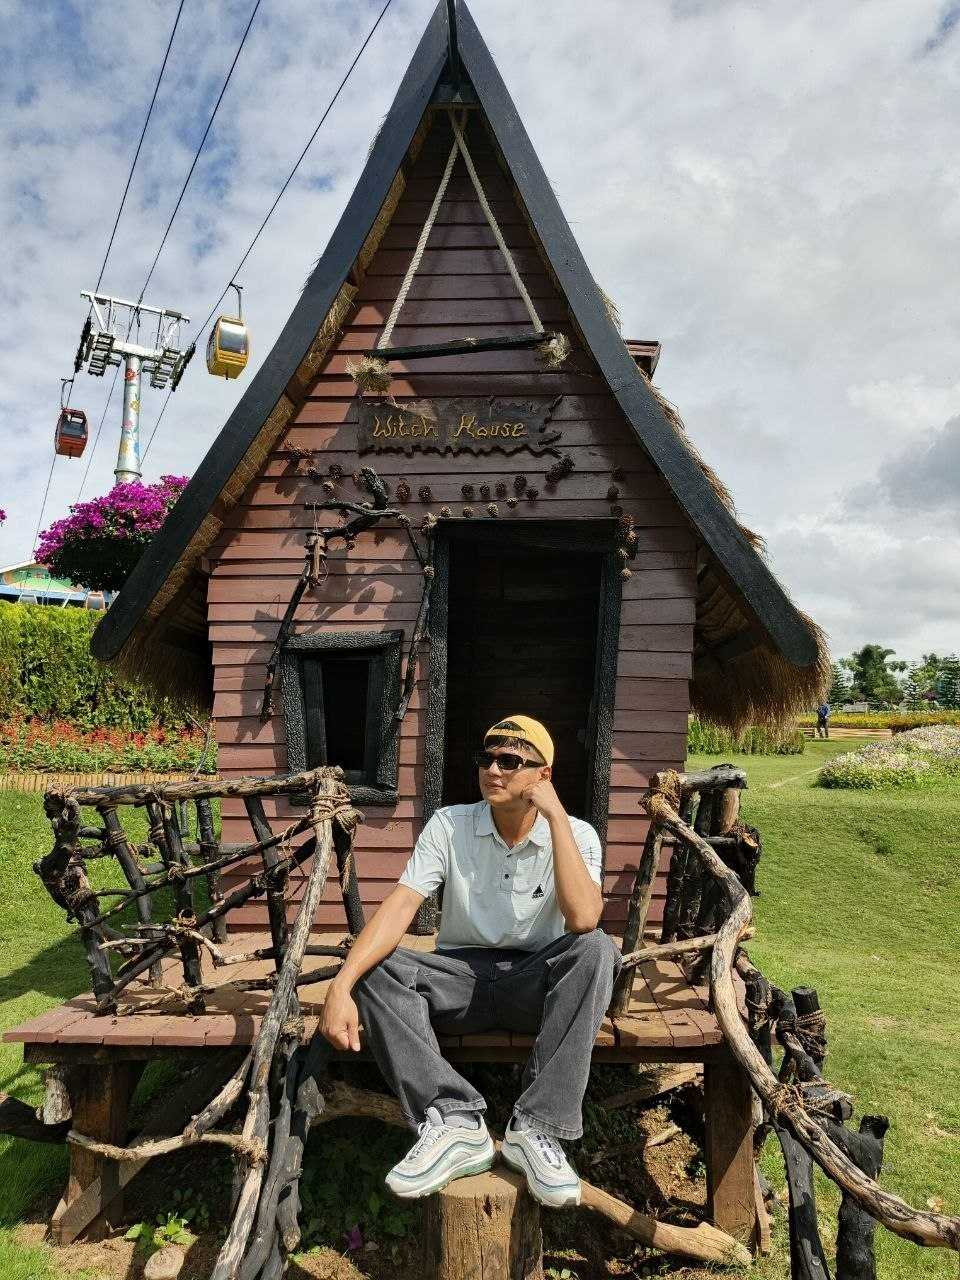
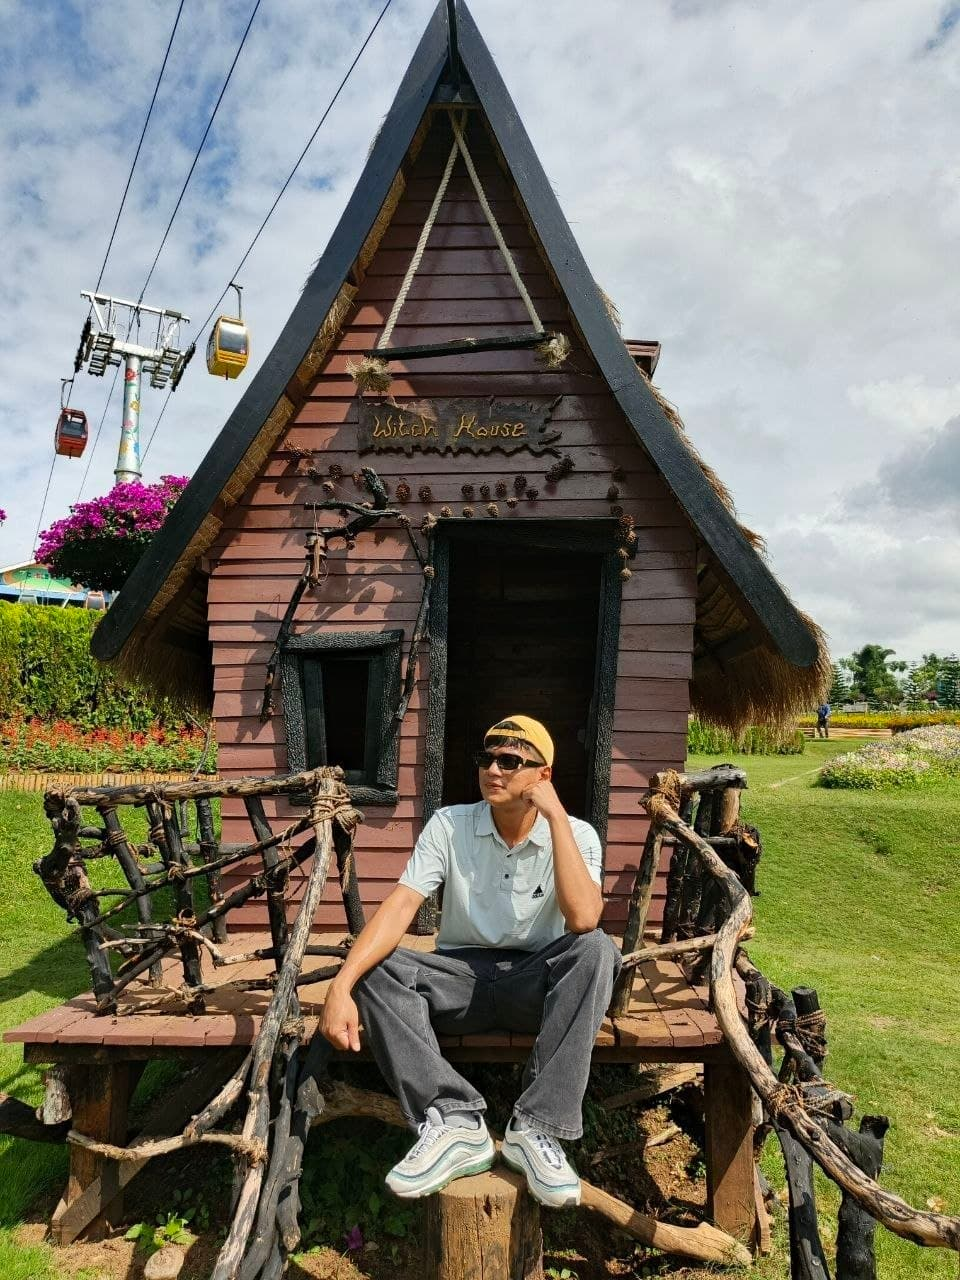
changing file type

diff --git a/script.js b/script.js
@@ -2,62 +2,62 @@ const graduatesList = [
     {
         name: "Francis Seng Gum Ja",
         diocese: "Lashio",
-        image: "img/francis.jpg"
+        image: "img/francis.webp"
     },
     {
         name: "Mary Hung Sein",
         diocese: "Mindat",
-        image: "img/hungsein.jpg"
+        image: "img/hungsein.webp"
     },
     {
         name: "Mary Kalyar Soe",
         diocese: "Taungoo",
-        image: "img/kalayar.jpg"
+        image: "img/kalayar.webp"
     },
     {
         name: "Martha Man Sawn Cing",
         diocese: "Kalay",
-        image: "img/mansawn.jpg"
+        image: "img/mansawn.webp"
     },
     {
         name: "Jocy Htar Htar Paing",
         diocese: "Loikaw",
-        image: "img/jocy.jpg"
+        image: "img/jocy.webp"
     },
     {
         name: "Cecilia Shwe Zin",
         diocese: "Mandalay",
-        image: "img/shwezin.jpg"
+        image: "img/shwezin.webp"
     },
     {
         name: "Nicholas Lian Thawn Muang",
         diocese: "Hakha",
-        image: "img/nicholas.jpg"
+        image: "img/nicholas.webp"
     },
     {
         name: "Mary Hkawn San",
         diocese: "Myitkyina",
-        image: "img/hkawnsan.jpg"
+        image: "img/hkawnsan.webp"
     },
     {
         name: "Theresa Seng Sawm Ing",
         diocese: "Myitkyina",
-        image: "img/sengsawm.jpg"
+        image: "img/sengsawm.webp"
     },
     {
         name: "David Sam Sin",
         diocese: "Lashio",
-        image: "img/david.jpg"
+        image: "img/david.webp"
     },
     {
         name: "Monica Htu Ring Ja",
         diocese: "Banmaw",
-        image: "img/thuringja.jpg"
+        image: "img/thuringja.webp"
     },
     {
         name: "Cecilia Kai Yin",
         diocese: "Banmaw",
-        image: "img/kaiyin.jpg"
+        image: "img/kaiyin.webp"
     },
     {
         name: "Christopher Ko Ko",
@@ -67,17 +67,17 @@ const graduatesList = [
     {
         name: "Elizabeth Thae Moe Khaing",
         diocese: "Banmaw",
-        image: "img/thaemo.jpg"
+        image: "img/thaemo.webp"
     },
     {
         name: "Maria Ei Jar",
         diocese: "Lashio",
-        image: "img/eijar.jpg"
+        image: "img/eijar.webp"
     },
     {
         name: "Mary Htoo",
         diocese: "Phekhon",
-        image: "img/kohto.jpg"
+        image: "img/kohto.webp"
     },
     {
         name: "Elizabeth Thang Awi",
@@ -87,27 +87,27 @@ const graduatesList = [
     {
         name: "Juliana Hla Ya Min Htike",
         diocese: "Mandalay",
-        image: "img/majuice.jpg"
+        image: "img/majuice.webp"
     },
     {
         name: "Mary No San Cing",
         diocese: "Kalay",
-        image: "img/ethan.jpg"
+        image: "img/ethan.webp"
     },
     {
         name: "Joseph Nang Zing La Mu",
         diocese: "Banmaw",
-        image: "img/lamu.jpg"
+        image: "img/lamu.webp"
     },
     {
         name: "Martha Yadana Oo",
         diocese: "Mawlamyine",
-        image: "img/marthaB.jpg"
+        image: "img/marthaB.webp"
     },
     {
         name: "Martha Hnin Thiri Wai",
         diocese: "Mawlamyine",
-        image: "img/marthaA.jpg"
+        image: "img/marthaA.webp"
     },
     {
         name: "Monica Nuam Deih Lawh Cing",
@@ -117,37 +117,42 @@ const graduatesList = [
     {
         name: "Cynthia Ko",
         diocese: "Taungoo",
-        image: "img/cynthia.jpg"
+        image: "img/cynthia.webp"
     },
     {
         name: "Rita Muduh Roi Sam",
         diocese: "Myitkyina",
-        image: "img/rita.jpg"
+        image: "img/rita.webp"
     },
     {
         name: "Cecilia Dim Muan Hau",
         diocese: "Kalay",
-        image: "img/muannu.jpg"
+        image: "img/muannu.webp"
     },
     {
         name: "Cecilia Ji Jan",
         diocese: "Bamaw",
-        image: "img/jijan.png"
+        image: "img/jijan.webp"
+    },
+    {
+        name: "Mary Htun",
+        diocese: "Pyay",
+        image: "img/maryhtun.webp"
     },
     {
         name: "Lawrence Tio",
         diocese: "Phekhone",
-        image: "img/lawrance.jpg"
+        image: "img/lawrance.webp"
     },
     {
         name: "John Mang Deih Khual",
         diocese: "Kalay",
-        image: "img/john.jpg"
+        image: "img/john.webp"
     },
     {
         name: "Margret Phray Mar",
         diocese: "Loikaw",
-        image: "img/magaret.jpg"
+        image: "img/magaret.webp"
     }
 ];
 
